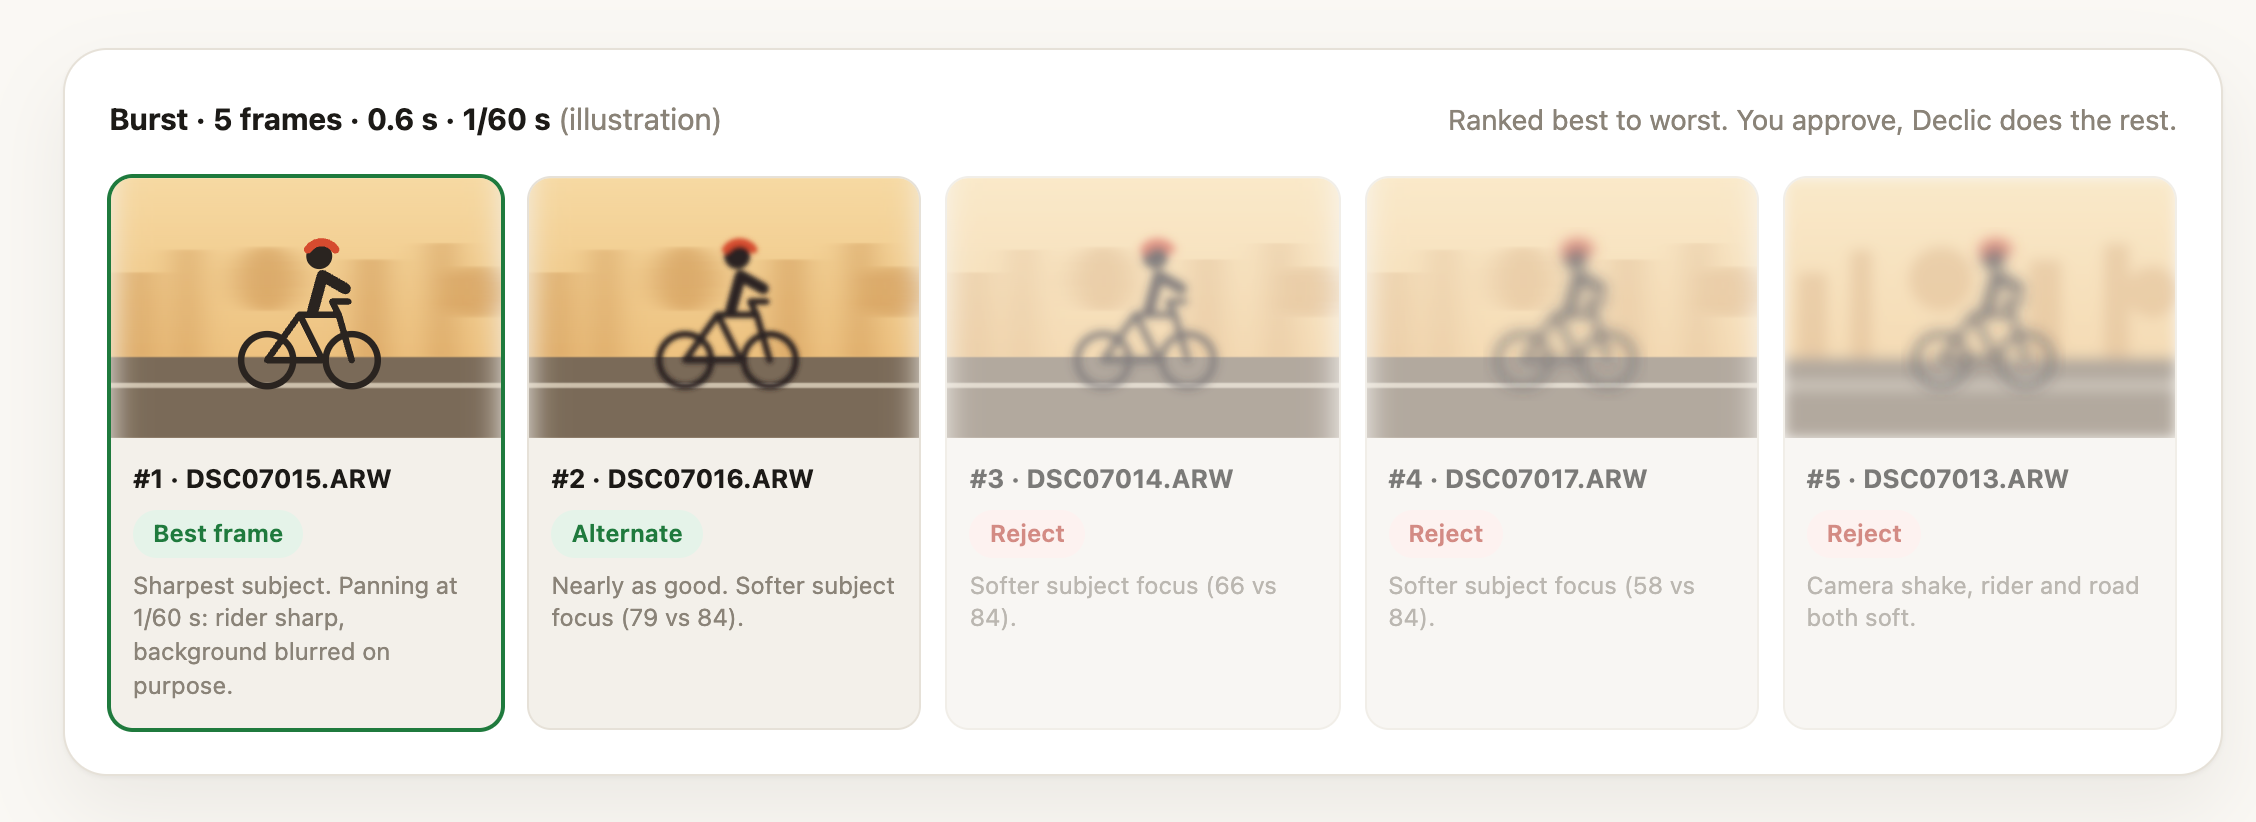
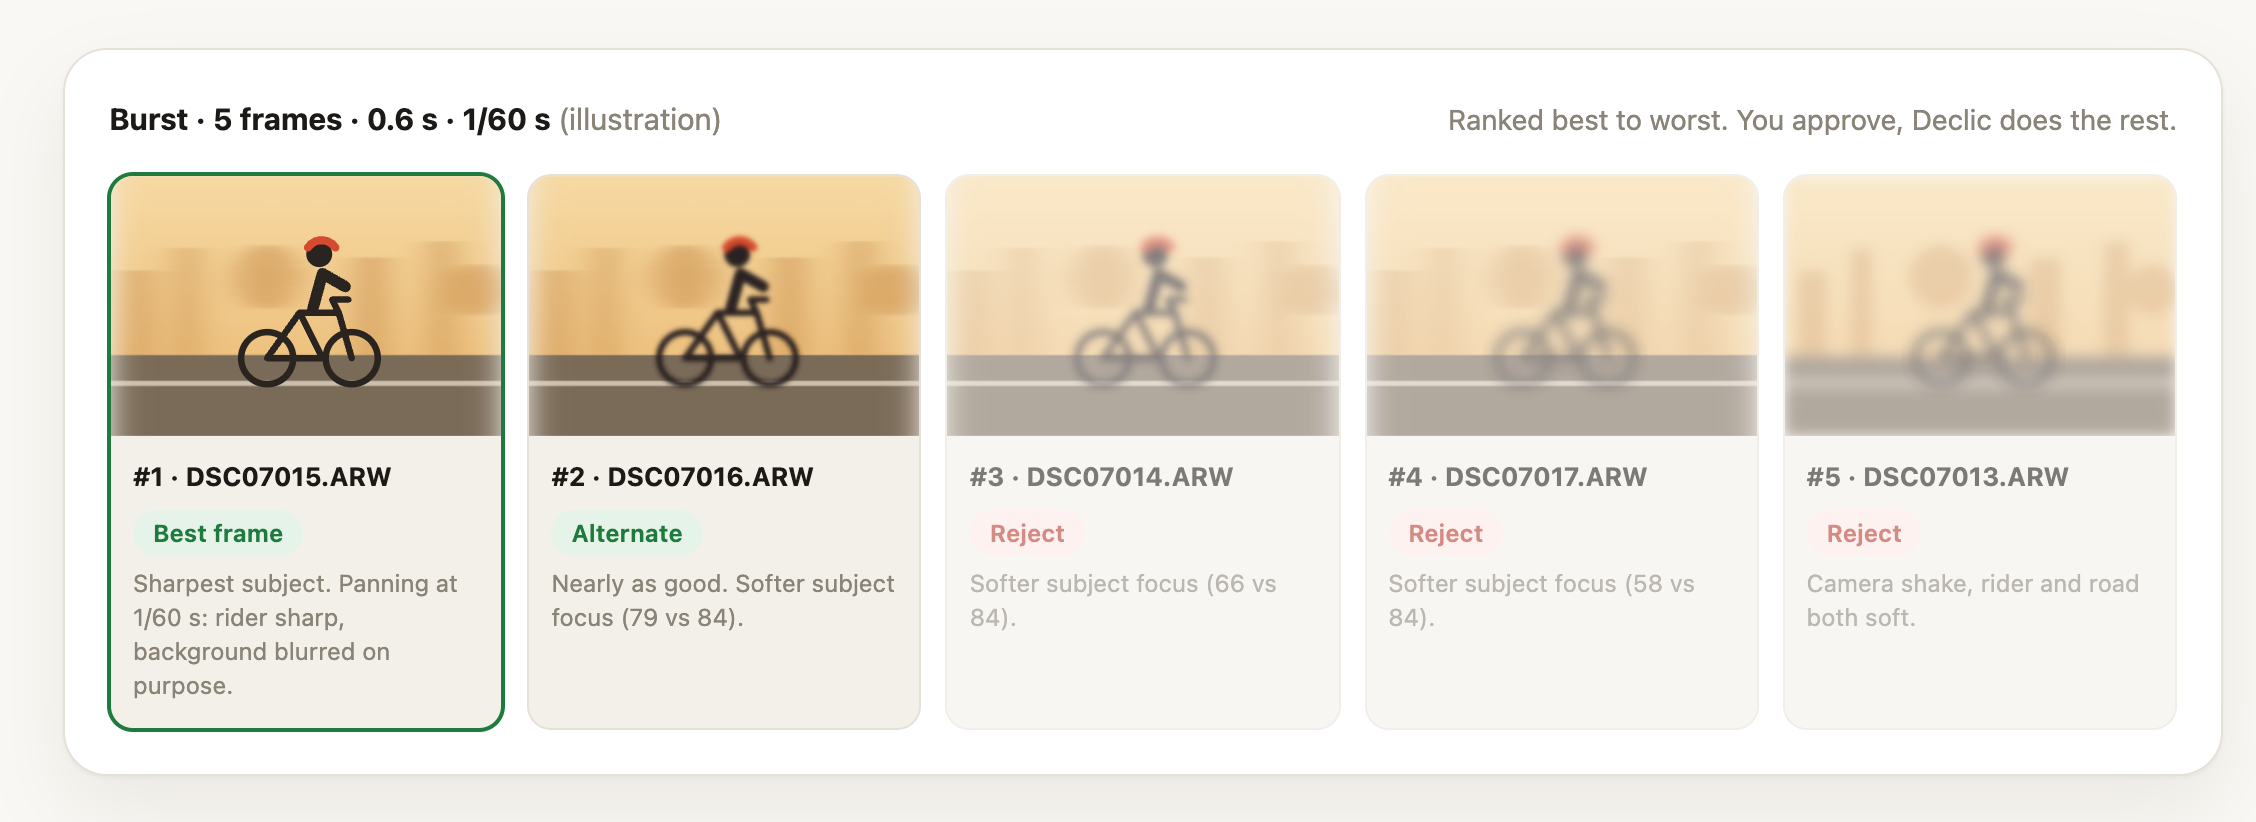
Text-only wordmark, three-step overview, card storage bar, fix photo total to 91 GB

diff --git a/docs/index.html b/docs/index.html
@@ -57,8 +57,10 @@
 
   header.top { position: sticky; top: 0; z-index: 5; background: color-mix(in srgb, var(--page) 88%, transparent); backdrop-filter: blur(10px); border-bottom: 1px solid var(--line); }
   header.top .wrap { display: flex; align-items: center; justify-content: space-between; gap: 16px; min-height: 64px; }
-  .brand { display: flex; align-items: center; gap: 10px; text-decoration: none; font-weight: 750; font-size: 19px; letter-spacing: -0.01em; }
-  .brand img { width: 30px; height: 30px; }
+  /* The wordmark is just type: heavy lowercase with an amber full stop, the "click". */
+  .wordmark { font-weight: 850; letter-spacing: -0.045em; text-decoration: none; color: var(--ink); line-height: 1; }
+  .wordmark b { color: var(--amber); font-weight: 900; }
+  header .wordmark { font-size: 26px; }
   nav { display: flex; gap: 22px; align-items: center; font-size: 15px; }
   nav a { text-decoration: none; color: var(--ink-2); }
   nav a:hover { color: var(--ink); }
@@ -92,6 +94,25 @@
   .frame .meta span:last-child { font-size: 12px; color: var(--ink-3); line-height: 1.4; }
 
   section { padding: 72px 0; }
+  .eyebrow { display: inline-block; margin-bottom: 18px; font-size: 13px; font-weight: 650; letter-spacing: .04em; color: var(--amber); background: var(--amber-soft); padding: 5px 12px; border-radius: 999px; }
+
+  .steps-section { padding: 56px 0; }
+  .steps { display: grid; grid-template-columns: repeat(3, minmax(0, 1fr)); gap: 28px; }
+  .steps h3 { margin: 10px 0 6px; font-size: 18px; letter-spacing: -0.01em; }
+  .steps p { margin: 0; color: var(--ink-2); font-size: 15px; }
+  .num { display: inline-grid; place-items: center; width: 32px; height: 32px; border-radius: 50%; background: var(--ink); color: var(--page); font-weight: 750; font-size: 15px; }
+
+  .cardbar { grid-column: 1 / -1; margin: 4px 0 0; background: var(--surface); border: 1px solid var(--line); border-radius: var(--radius); padding: 18px 20px; }
+  .cardbar figcaption { font-size: 14px; color: var(--ink-3); margin-bottom: 10px; }
+  .cardbar .bar { display: flex; gap: 2px; height: 18px; }
+  .cardbar .bar i { display: block; }
+  .cardbar .bar i:first-child { border-radius: 4px 0 0 4px; }
+  .cardbar .bar i:last-child { border-radius: 0 4px 4px 0; }
+  .keep { background: #a9a194; }
+  .extra { background: var(--amber); }
+  .cardbar .legend { display: flex; gap: 18px; flex-wrap: wrap; margin-top: 10px; font-size: 13px; color: var(--ink-2); }
+  .cardbar .legend span { display: inline-flex; align-items: center; gap: 6px; }
+  .cardbar .legend i { width: 10px; height: 10px; border-radius: 3px; display: inline-block; }
   section + section { border-top: 1px solid var(--line); }
   h2 { font-size: clamp(28px, 3.6vw, 40px); letter-spacing: -0.025em; line-height: 1.1; margin: 0 0 16px; max-width: 22ch; }
   .intro { font-size: 18px; color: var(--ink-2); max-width: 62ch; margin: 0 0 36px; }
@@ -146,6 +167,7 @@
     .frames { grid-template-columns: repeat(3, minmax(0, 1fr)); }
     .frames .frame:nth-child(n+4) { display: none; }
     .story, .privacy, .status { grid-template-columns: 1fr; }
+    .steps { grid-template-columns: 1fr; gap: 22px; }
     .grid, .technique { grid-template-columns: repeat(2, minmax(0, 1fr)); }
   }
   @media (max-width: 620px) {
@@ -193,7 +215,7 @@
 
 <header class="top">
   <div class="wrap">
-    <a class="brand" href="#"><img src="assets/logo.svg" alt="">declic</a>
+    <a class="wordmark" href="#" aria-label="Declic">declic<b>.</b></a>
     <nav>
       <a href="#how">How it works</a>
       <a href="#technique">Technique</a>
@@ -206,6 +228,7 @@
 
 <main>
   <div class="wrap hero">
+    <span class="eyebrow">Photo culling for Mac · Private beta</span>
     <h1>Find your keepers. Clear out the rest.</h1>
     <p class="lead">
       Declic goes through a whole memory card on your Mac, groups the bursts, picks the sharpest frame and tells you why it picked it.
@@ -247,6 +270,14 @@
     </div>
   </div>
 
+  <section id="steps" class="steps-section">
+    <div class="wrap steps">
+      <div><span class="num">1</span><h3>Plug in your card</h3><p>Pick a folder or click your card when it shows up. RAW files get a local preview, so you can eject the card while it works.</p></div>
+      <div><span class="num">2</span><h3>Check the picks</h3><p>Every burst comes back ranked, with the reason for each pick. Flip anything you disagree with, then approve.</p></div>
+      <div><span class="num">3</span><h3>Free the space</h3><p>Approved rejects move to a staging folder on the same drive. Look through it, then empty it, or undo it all.</p></div>
+    </div>
+  </section>
+
   <section id="story">
     <div class="wrap story">
       <div>
@@ -258,8 +289,13 @@
       <div class="stats">
         <div class="stat"><b>3,622</b><span>RAW files on the card</span></div>
         <div class="stat"><b>367</b><span>bursts found</span></div>
-        <div class="stat accent"><b>65 GB</b><span>of 85 GB were near-identical burst frames</span></div>
+        <div class="stat accent"><b>65 GB</b><span>of 91 GB were near-identical burst frames</span></div>
         <div class="stat"><b>0</b><span>photos uploaded anywhere</span></div>
+        <figure class="cardbar" aria-label="One memory card: 26 GB of keepers and 65 GB of near-identical burst frames">
+          <figcaption>One card, 91 GB of photos</figcaption>
+          <div class="bar"><i class="keep" style="flex-grow:26"></i><i class="extra" style="flex-grow:65"></i></div>
+          <div class="legend"><span><i class="keep"></i>Keepers · 26 GB</span><span><i class="extra"></i>Near-identical frames · 65 GB</span></div>
+        </figure>
       </div>
     </div>
   </section>
@@ -382,7 +418,7 @@
 
 <footer>
   <div class="wrap">
-    <span>Declic · made by a photographer, for the evening after the shoot.</span>
+    <span><span class="wordmark" style="font-size:18px">declic<b>.</b></span>&nbsp; Made by a photographer, for the evening after the shoot.</span>
     <span><a data-link="repo" href="#">GitHub</a> · <a href="privacy.html">Privacy</a></span>
   </div>
 </footer>

diff --git a/docs/privacy.html b/docs/privacy.html
@@ -11,8 +11,8 @@
   body { margin: 0; background: var(--page); line-height: 1.65; }
   main { max-width: 680px; margin: 0 auto; padding: 48px 24px 72px; }
   a { color: inherit; }
-  .brand { display: inline-flex; align-items: center; gap: 10px; font-weight: 750; font-size: 18px; text-decoration: none; margin-bottom: 40px; }
-  .brand img { width: 28px; height: 28px; }
+  .wordmark { display: inline-block; font-weight: 850; letter-spacing: -0.045em; text-decoration: none; color: var(--ink); font-size: 26px; line-height: 1; margin-bottom: 40px; }
+  .wordmark b { color: #b5801f; font-weight: 900; }
   h1 { font-size: 40px; letter-spacing: -0.03em; line-height: 1.1; margin: 0 0 12px; }
   h2 { font-size: 20px; margin: 36px 0 8px; }
   p, li { color: var(--ink-2); }
@@ -23,7 +23,7 @@
 </head>
 <body>
 <main>
-  <a class="brand" href="./"><img src="assets/logo.svg" alt="">declic</a>
+  <a class="wordmark" href="./" aria-label="Declic">declic<b>.</b></a>
   <h1>Privacy</h1>
   <p>Short version: your photos stay on your Mac.</p>
 

diff --git a/README.md b/README.md
@@ -1,8 +1,4 @@
-<p align="center">
-  <img src="docs/assets/logo.svg" width="72" alt="Declic logo">
-</p>
-
-<h1 align="center">Declic</h1>
+<h1 align="center">declic.</h1>
 
 <p align="center">
   Find your keepers. Clear out the rest.<br>
@@ -24,7 +20,7 @@
 
 Declic goes through a whole memory card, groups the bursts, picks the sharpest frame and tells you why. It's pronounced *day-kleek*, French for the click of a shutter.
 
-Shooting a cycling race means holding the shutter down: at 11 frames a second, one rider going past is twenty frames, and only one of them has the wheel, the face and the light exactly right. After two days at a race I came home with 3,622 RAW files on one card. Finding that one frame in every burst is the slowest part of the job, so I built a tool that does the first pass on my own laptop and leaves the final call to me. On that card, 65 GB of the 85 GB turned out to be near-identical burst frames.
+Shooting a cycling race means holding the shutter down: at 11 frames a second, one rider going past is twenty frames, and only one of them has the wheel, the face and the light exactly right. After two days at a race I came home with 3,622 RAW files on one card. Finding that one frame in every burst is the slowest part of the job, so I built a tool that does the first pass on my own laptop and leaves the final call to me. On that card, 65 GB of the 91 GB turned out to be near-identical burst frames.
 
 > **The code isn't public yet.** I want it to install cleanly on someone else's Mac before I put it out there. This repo is the home for the project in the meantime: the website, the roadmap, and the beta sign-up.
 
